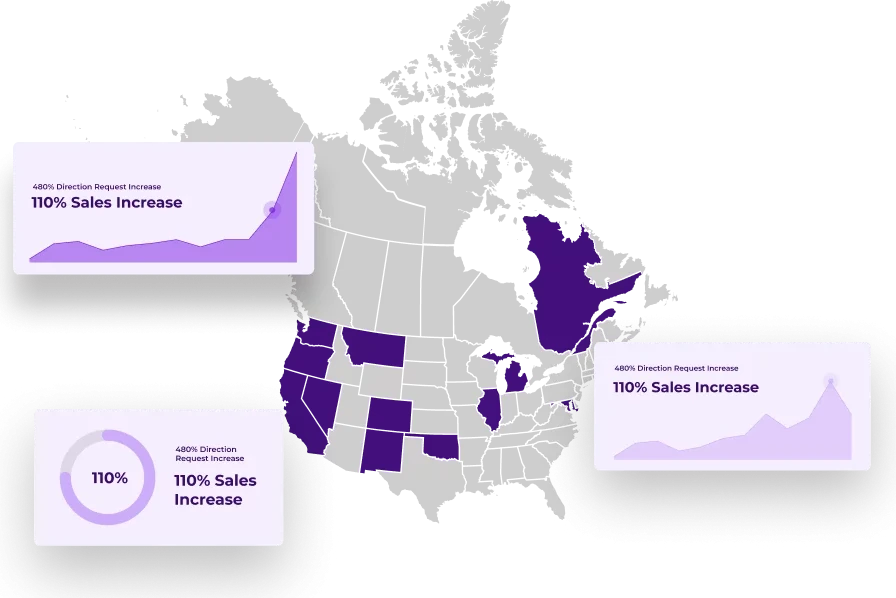
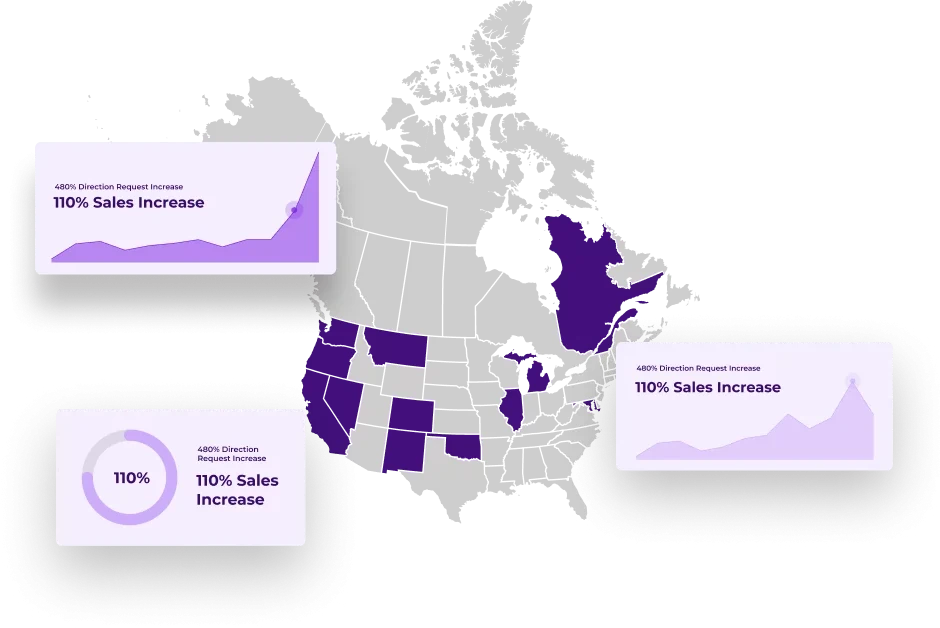
Dispenza: client-case accordion, map shadows restored
THE ACCORDION. Four client cards: shut, a card is its storefront under the brand
violet with the mark reading up the spine; open, the photograph desaturates and
the numbers appear beside it. One open at a time, moved only by a click or an
arrow key. No timeline anywhere in it, so it is not the autoplay carousel the
motion spec bans.

EVERY FIGURE IS REAL TEXT. The supplied artwork has the numbers burnt into the
image. Shipping that would put corpus data where a screen reader, find-in-page
and verify-copy-fidelity cannot reach it, so only the PHOTOGRAPH and the LOGO
come from the artwork: the open band is cropped ABOVE the source's white rule,
which is the one region carrying no numbers. Every label and value is this
section's existing markup, lifted across rather than retyped.

ALL FOUR PANELS STAY IN THE DOM whether open or shut. They are clipped by the
card, never removed, so no client's numbers depend on a click to exist. The card
is height-capped rather than display:none for exactly that reason.

TWO THINGS I GOT WRONG AND FIXED:
  * my first extraction used a non-greedy regex for each card body, which stopped
    at the first </div> inside it -- the rule element -- and silently truncated
    every card. +49.08%, 93.37% and +32.51% went to zero occurrences. Caught by
    counting atoms after the rewrite; restored from the published copy and redone
    with depth-matched parsing.
  * the supplied art already carries each mark burnt in, so overlaying a separate
[…]

Changed region(s): [[0.0, 0.0301, 0.9688, 0.8729], [0.0312, 0.6622, 0.3125, 0.9632], [0.0, 0.3612, 0.0312, 0.3913]]

diff --git a/dispenza/_design/_tournament/foundation-1-measured-column/index.html b/dispenza/_design/_tournament/foundation-1-measured-column/index.html
@@ -828,7 +828,7 @@
         <figure class="mc-results__map" data-reveal>
         <img src="../../../assets/generated/results-map.webp"
         alt="Map of North America with the states and provinces Dispenza operates in highlighted."
-        width="896" height="598" decoding="async">
+        width="940" height="628" decoding="async">
         </figure>
       </div>
     </div>
@@ -956,10 +956,38 @@
     </div>
     <div class="row">
       <div class="col">
-        <div class="mc-bench">
-        <div class="mc-bench__card" data-reveal>
-          <div class="mc-bench__head"><p class="mc-bench__brand">Low Key</p></div>
-          <div class="mc-bench__body">
+        <!-- AN ACCORDION OF CLIENT CARDS. Shut, a card is its storefront under the
+             brand violet with the mark reading up the spine; open, the photograph
+             desaturates and the numbers appear beside it. The photography and the
+             marks are the client's own, supplied by the owner, who confirmed the
+             rights to display them.
+
+             EVERY FIGURE IS REAL TEXT. The supplied artwork has the numbers baked
+             into the image. Shipping that would put corpus data somewhere a
+             screen reader, find-in-page and verify-copy-fidelity cannot reach, so
+             only the PHOTOGRAPH and the LOGO come from the artwork. Every label
+             and value below is this section's existing markup, lifted across
+             unchanged rather than retyped.
+
+             ALL FOUR PANELS STAY IN THE DOM whether open or shut. They are
+             clipped by the card, never removed, so no client's numbers depend on
+             a click in order to exist. -->
+        <div class="mc-cases" data-cases>
+      <article class="mc-case is-open" data-case>
+        <h3 class="mc-case__h">
+          <button class="mc-case__tab" type="button" data-case-tab
+                  aria-expanded="true" aria-controls="case-lowkey">
+            <img class="mc-case__art mc-case__art--shut"
+                 src="../../../assets/brand/cases/lowkey-card.webp"
+                 alt="" aria-hidden="true" decoding="async" width="244" height="575">
+            <img class="mc-case__art mc-case__art--open"
+                 src="../../../assets/brand/cases/lowkey-open.webp"
+                 alt="" aria-hidden="true" decoding="async" width="722" height="205">
+            <span class="mc-case__name">Low Key</span>
+          </button>
+        </h3>
+        <div class="mc-case__panel" id="case-lowkey">
+          <div class="mc-case__rule" aria-hidden="true"></div>
           <p class="mc-bench__when">Day 0</p>
           <p class="mc-bench__row"><span>SoLV Weed Dispensary</span><span class="mc-bench__v">0.00</span></p>
           <p class="mc-bench__row"><span>Direction Requests</span><span class="mc-bench__v">291</span></p>
@@ -967,11 +995,23 @@
           <p class="mc-bench__when">1 Month</p>
           <p class="mc-bench__row"><span>SoLV Increase- Weed Dispensary</span><span class="mc-bench__v">100.00</span></p>
           <p class="mc-bench__row"><span>Direction Requests Increase</span><span class="mc-bench__v">+100%</span></p>
-          </div>
         </div>
-        <div class="mc-bench__card" data-reveal>
-          <div class="mc-bench__head"><p class="mc-bench__brand">Root'd in the 510</p></div>
-          <div class="mc-bench__body">
+      </article>
+      <article class="mc-case" data-case>
+        <h3 class="mc-case__h">
+          <button class="mc-case__tab" type="button" data-case-tab
+                  aria-expanded="false" aria-controls="case-rootd">
+            <img class="mc-case__art mc-case__art--shut"
+                 src="../../../assets/brand/cases/rootd-card.webp"
+                 alt="" aria-hidden="true" decoding="async" width="244" height="575">
+            <img class="mc-case__art mc-case__art--open"
+                 src="../../../assets/brand/cases/rootd-open.webp"
+                 alt="" aria-hidden="true" decoding="async" width="722" height="205">
+            <span class="mc-case__name">Root'd in the 510</span>
+          </button>
+        </h3>
+        <div class="mc-case__panel" id="case-rootd">
+          <div class="mc-case__rule" aria-hidden="true"></div>
           <p class="mc-bench__when">Day 0</p>
           <p class="mc-bench__row"><span>SoLV Weed</span><span class="mc-bench__v">0.00</span></p>
           <p class="mc-bench__row"><span>Direction Requests</span><span class="mc-bench__v">709</span></p>
@@ -979,11 +1019,23 @@
           <p class="mc-bench__when">12 Month</p>
           <p class="mc-bench__row"><span>SoLV Increase- Weed</span><span class="mc-bench__v">59.62</span></p>
           <p class="mc-bench__row"><span>Direction Requests Increase</span><span class="mc-bench__v">+49.08%</span></p>
-          </div>
         </div>
-        <div class="mc-bench__card" data-reveal>
-          <div class="mc-bench__head"><p class="mc-bench__brand">Kanna</p></div>
-          <div class="mc-bench__body">
+      </article>
+      <article class="mc-case" data-case>
+        <h3 class="mc-case__h">
+          <button class="mc-case__tab" type="button" data-case-tab
+                  aria-expanded="false" aria-controls="case-kanna">
+            <img class="mc-case__art mc-case__art--shut"
+                 src="../../../assets/brand/cases/kanna-card.webp"
+                 alt="" aria-hidden="true" decoding="async" width="244" height="575">
+            <img class="mc-case__art mc-case__art--open"
+                 src="../../../assets/brand/cases/kanna-open.webp"
+                 alt="" aria-hidden="true" decoding="async" width="722" height="205">
+            <span class="mc-case__name">Kanna</span>
+          </button>
+        </h3>
+        <div class="mc-case__panel" id="case-kanna">
+          <div class="mc-case__rule" aria-hidden="true"></div>
           <p class="mc-bench__when">Day 0</p>
           <p class="mc-bench__row"><span>SoLV Weed Dispensary</span><span class="mc-bench__v">0.00</span></p>
           <p class="mc-bench__row"><span>Direction Requests</span><span class="mc-bench__v">181</span></p>
@@ -991,11 +1043,23 @@
           <p class="mc-bench__when">3 Month</p>
           <p class="mc-bench__row"><span>SoLV Increase- Weed Dispensary</span><span class="mc-bench__v">93.37%</span></p>
           <p class="mc-bench__row"><span>Direction Requests Increase</span><span class="mc-bench__v">+32.51%</span></p>
-          </div>
         </div>
-        <div class="mc-bench__card mc-bench__card--ours" data-reveal>
-          <div class="mc-bench__head"><p class="mc-bench__brand">Cookies Sunland Park</p></div>
-          <div class="mc-bench__body">
+      </article>
+      <article class="mc-case" data-case>
+        <h3 class="mc-case__h">
+          <button class="mc-case__tab" type="button" data-case-tab
+                  aria-expanded="false" aria-controls="case-cookies">
+            <img class="mc-case__art mc-case__art--shut"
+                 src="../../../assets/brand/cases/cookies-card.webp"
+                 alt="" aria-hidden="true" decoding="async" width="244" height="575">
+            <img class="mc-case__art mc-case__art--open"
+                 src="../../../assets/brand/cases/cookies-open.webp"
+                 alt="" aria-hidden="true" decoding="async" width="722" height="205">
+            <span class="mc-case__name">Cookies Sunland Park</span>
+          </button>
+        </h3>
+        <div class="mc-case__panel" id="case-cookies">
+          <div class="mc-case__rule" aria-hidden="true"></div>
           <p class="mc-bench__when">Day 0</p>
           <p class="mc-bench__row"><span>SoLV Weed Dispensary</span><span class="mc-bench__v">0.00</span></p>
           <p class="mc-bench__row"><span>Website Visits</span><span class="mc-bench__v">291</span></p>
@@ -1003,12 +1067,50 @@
           <p class="mc-bench__when">1 Month</p>
           <p class="mc-bench__row"><span>SoLV Increase- Weed Dispensary</span><span class="mc-bench__v">99.17</span></p>
           <p class="mc-bench__row"><span>Website Visits Increase</span><span class="mc-bench__v">+100%</span></p>
-          </div>
         </div>
+      </article>
         </div>
       </div>
     </div>
   </div>
+    <!-- The accordion carries its own behaviour, INSIDE <main>, for the same reason
+         the marquee and the divider do: every byte outside <main> is locked chrome. -->
+    <script>
+    (function () {
+      /* NO TIMELINE, so it is not the autoplay carousel the motion spec bans: it
+         moves on a click or a key and never on its own. One panel open at a time.
+         The panels are only ever CLIPPED by their card, never removed, so all four
+         clients' numbers stay in the DOM and in the accessibility tree whatever is
+         open. aria-expanded is what tells assistive tech which one is showing. */
+      var wrap = document.querySelector('[data-cases]');
+      if (!wrap) { return; }
+      var cases = [].slice.call(wrap.querySelectorAll('[data-case]'));
+
+      function open(card) {
+        cases.forEach(function (c) {
+          var on = (c === card);
+          c.classList.toggle('is-open', on);
+          var t = c.querySelector('[data-case-tab]');
+          if (t) { t.setAttribute('aria-expanded', on ? 'true' : 'false'); }
+        });
+      }
+
+      cases.forEach(function (c, i) {
+        var tab = c.querySelector('[data-case-tab]');
+        if (!tab) { return; }
+        tab.addEventListener('click', function () { open(c); });
+        tab.addEventListener('keydown', function (e) {
+          var n = null;
+          if (e.key === 'ArrowRight' || e.key === 'ArrowDown') { n = cases[(i + 1) % cases.length]; }
+          if (e.key === 'ArrowLeft'  || e.key === 'ArrowUp')   { n = cases[(i - 1 + cases.length) % cases.length]; }
+          if (!n) { return; }
+          e.preventDefault();
+          open(n);
+          n.querySelector('[data-case-tab]').focus();
+        });
+      });
+    }());
+    </script>
 </section>
 
 

diff --git a/dispenza/_design/_tournament/foundation-1-measured-column/dispenza-structural.css b/dispenza/_design/_tournament/foundation-1-measured-column/dispenza-structural.css
@@ -286,6 +286,119 @@ section[id], #main{scroll-margin-top:calc(var(--ds-space-xl) + var(--ds-space-md
    as a collage. They lift on hover, which is also how a visitor learns the row
    is interactive rather than decorative.
    =========================================================================== */
+/* -- THE CLIENT CASE ACCORDION ----------------------------------------------
+   Shut, a card is its storefront under the brand violet with the mark reading up
+   the spine. Open, the photograph desaturates and the numbers appear beside it.
+
+   IT IS NOT ON THE FORBIDDEN LIST. The spec bans autoplay carousels and anything
+   looping in the viewport; this has no timeline at all and moves only on a click
+   or a key. One panel is open at a time, which is what makes it an accordion
+   rather than four independent toggles.
+
+   THE PANELS ARE NEVER REMOVED, only clipped by the card. All four clients'
+   numbers are in the DOM at every moment, so nothing anyone published depends on
+   a visitor clicking to exist -- not for a screen reader, not for find-in-page,
+   not for verify-copy-fidelity. min-width on the panel is what makes that safe to
+   animate: without it the text would reflow through a dozen line-break layouts
+   as the card widens, which is both ugly and expensive. */
+.mc-cases{
+  display:flex;
+  gap:var(--ds-space-md);
+  align-items:flex-start;
+  margin-top:var(--ds-space-xl);
+}
+.mc-case{
+  position:relative;
+  flex:0 1 var(--mc-case-w, 152px);
+  min-width:0;
+  overflow:hidden;
+  border-radius:var(--ds-r-card, 18px);
+  background:var(--ds-bg-warm);
+  /* A SHUT CARD IS EXACTLY ITS ART, and the panel is CLIPPED by it rather than
+     removed. Left to size itself the card was 430px of photograph followed by
+     ~450px of dead ground, because an invisible panel still takes height. Height
+     is not display:none for a reason: a clipped element is still rendered, so the
+     numbers stay in the accessibility tree and in find-in-page, which is the
+     whole point of never removing them. */
+  height:var(--mc-case-h, 430px);
+  transition:flex-grow 520ms var(--ds-ease-out), height 520ms var(--ds-ease-out);
+}
+.mc-case.is-open{flex-grow:6;height:auto}
+
+/* TWO PIECES OF ART, ONE PER STATE, AND NEITHER IS DECORATION I ADDED.
+   The supplied files already carry each mark burnt into the photograph: the
+   shut card is the storefront under the brand violet with the logo reading up
+   the spine, and the open one is the same storefront desaturated with the logo
+   set horizontally. Overlaying a separate logo on top of those drew every mark
+   TWICE, and stretching the tall shut art across a wide card magnified the burnt
+   logo to fill it. So each state gets the art that was actually drawn for it.
+
+   The open band is cropped ABOVE the white rule in the source, which is the one
+   place the artwork carries no numbers. The numbers below it are real text. */
+.mc-case__h{margin:0}
+.mc-case__tab{
+  position:relative;display:block;
+  width:100%;height:var(--mc-case-h, 430px);
+  padding:0;border:0;background:none;cursor:pointer;
+  overflow:hidden;
+  transition:height 520ms var(--ds-ease-out);
+}
+.mc-case.is-open .mc-case__tab{height:var(--mc-case-band-h, 176px)}
+.mc-case__tab:focus-visible{outline:2px solid var(--ds-accent-light);outline-offset:-4px}
+
+.mc-case__art{
+  position:absolute;inset:0;
+  width:100%;height:100%;
+  object-fit:cover;display:block;
+  transition:opacity 380ms var(--ds-ease-out);
+}
+.mc-case__art--open{opacity:0;object-position:left center}
+.mc-case.is-open .mc-case__art--shut{opacity:0}
+.mc-case.is-open .mc-case__art--open{opacity:1}
+
+.mc-case__name{
+  position:absolute;width:1px;height:1px;
+  overflow:hidden;clip-path:inset(50%);white-space:nowrap;
+}
+
+.mc-case__panel{
+  position:relative;
+  padding:var(--ds-space-lg);
+  min-width:var(--mc-case-open-w, 380px);
+  opacity:0;pointer-events:none;
+  transition:opacity 340ms var(--ds-ease-out);
+}
+.mc-case.is-open .mc-case__panel{opacity:1;pointer-events:auto}
+.mc-case__rule{height:1px;background:rgba(255,255,255,.72);margin:0 0 var(--ds-space-md)}
+
+.mc-case__panel .mc-bench__when{
+  font-family:var(--ds-font-display);font-weight:800;
+  font-size:var(--ds-step-sub);color:var(--ds-ink-on-dark);
+  margin:0 0 var(--ds-space-sm);
+}
+.mc-case__panel .mc-bench__row{
+  display:flex;align-items:baseline;justify-content:space-between;
+  gap:var(--ds-space-md);
+  margin:0 0 var(--ds-space-sm);
+  color:var(--ds-ink-on-dark);
+}
+.mc-case__panel .mc-bench__row + .mc-bench__when{margin-top:var(--ds-space-md)}
+.mc-case__panel .mc-bench__v{font-variant-numeric:tabular-nums;white-space:nowrap}
+
+@media (prefers-reduced-motion: reduce){
+  .mc-case, .mc-case__tab, .mc-case__art, .mc-case__panel{transition:none}
+}
+/* stacked: a 152px spine is a sliver on a phone, so the cards become full-width
+   rows and the open one simply grows taller */
+@media (max-width:900px){
+  .mc-cases{flex-direction:column}
+  .mc-case{flex:0 0 auto;width:100%}
+  .mc-case__tab{height:var(--mc-case-band-h, 176px)}
+  .mc-case__art--shut{opacity:0}
+  .mc-case__art--open{opacity:1}
+  .mc-case__panel{min-width:0}
+}
+
 /* -- THE SMOKE BAND ---------------------------------------------------------
    One field spanning Influence Highlights and Our suite, so the smoke drifts
    THROUGH both rather than restarting at the seam between them.
